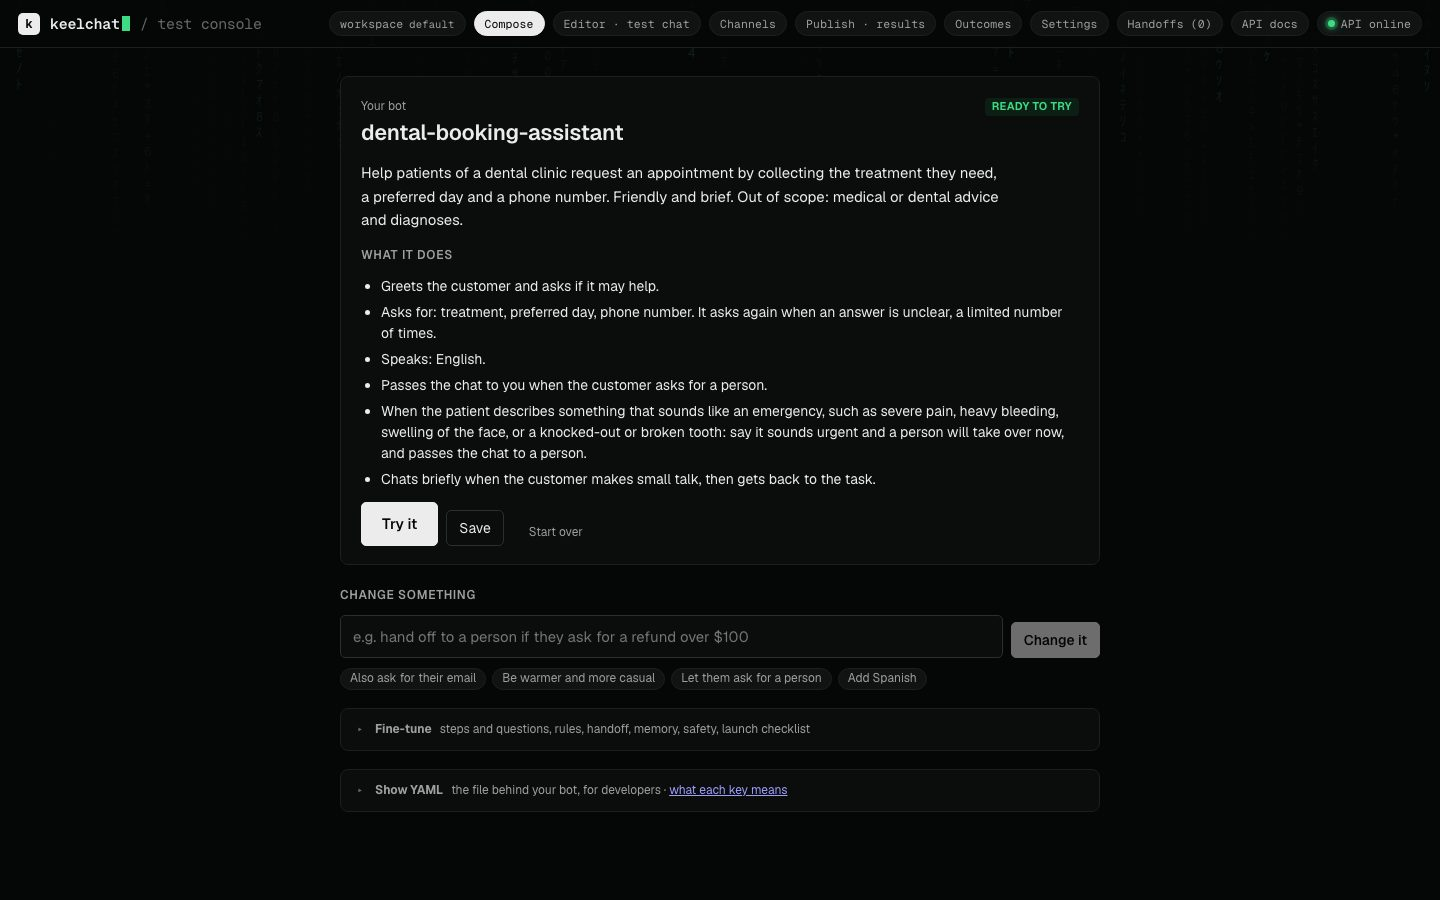
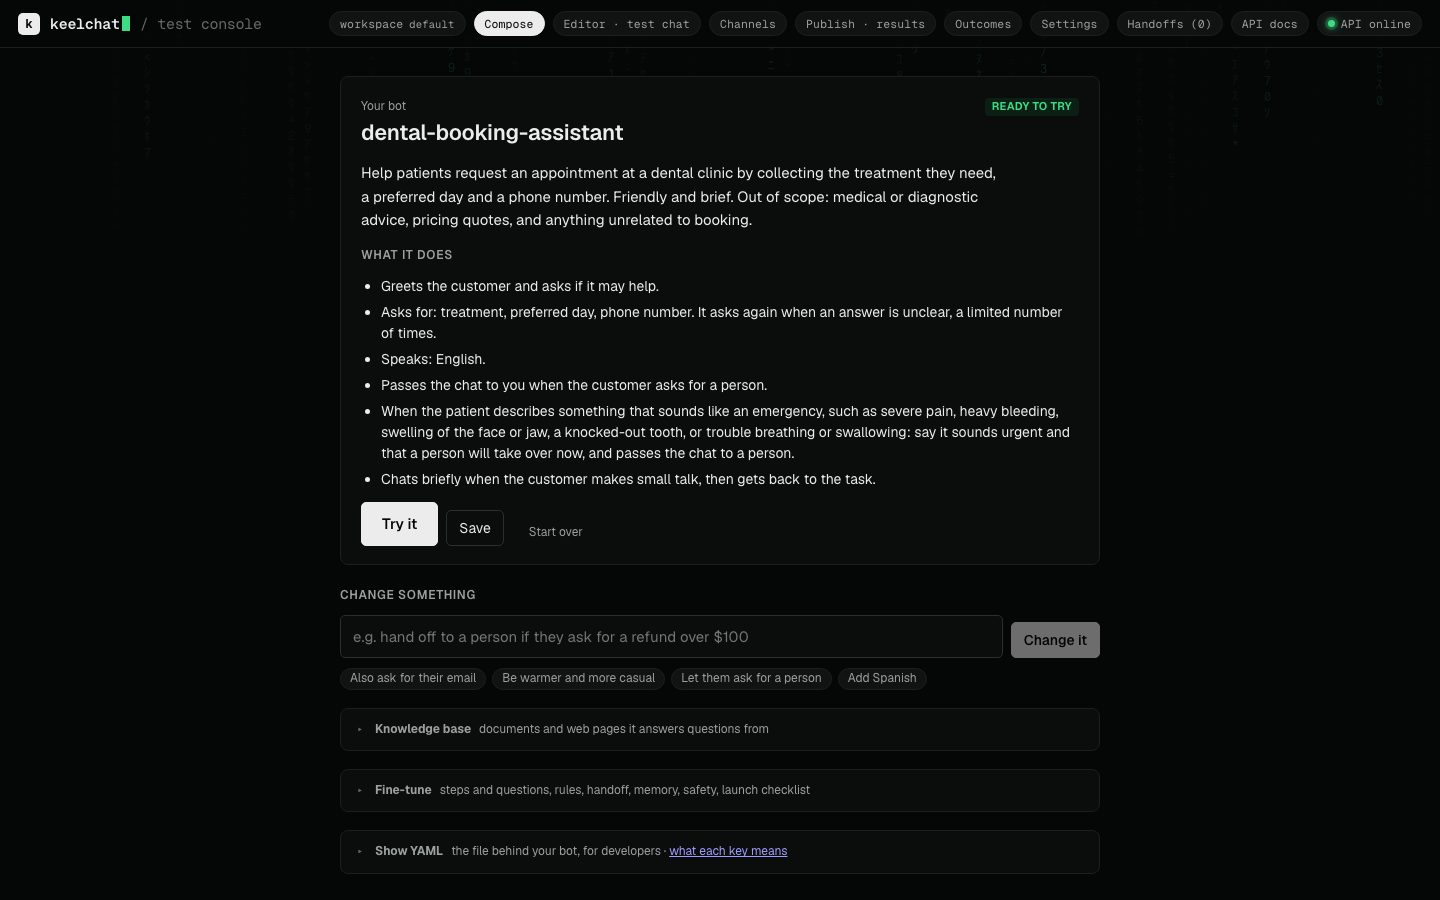
README screenshots re-taken from the current console and demo
All six images were checked against the running app (Sonnet drafting):
compose.jpg and the GIF now show the Knowledge base panel; console,
Why-tab and Judge shots re-taken; demo-make.jpg shows today's result card;
a new demo-ask.jpg shows the questions before drafting, added to the README.
Alt texts describe what each image now shows.

diff --git a/README.md b/README.md
@@ -52,7 +52,7 @@ Say what the bot should do in a sentence or two. keelchat drafts the policy, tel
 when it hands over, and takes changes in plain words ("also ask for a phone number"). The result is one short YAML
 file you can review and keep in git.
 
-<img src="https://raw.githubusercontent.com/pnrajan/keelchat/main/docs/assets/compose.jpg" width="900" alt="Compose: a dental clinic's booking bot written from two sentences, read back in plain words (what it asks, when it hands an emergency to a person), with Try it, Save, and a box to ask for changes" />
+<img src="https://raw.githubusercontent.com/pnrajan/keelchat/main/docs/assets/compose.jpg" width="900" alt="Compose: a dental clinic's booking bot written from a description and read back in plain words (what it asks, when it hands an emergency to a person), with Try it, Save, a box to ask for changes, and Knowledge base, Fine-tune and Show YAML below" />
 
 </td>
 </tr>
@@ -160,7 +160,9 @@ to chat with it (its tools answer with sample data), and see what it needs conne
 link can start a draft:
 [`?describe=Book haircuts and ask for a phone number`](https://keelchat-demo.fly.dev/?describe=Book+haircuts+and+ask+for+a+phone+number).
 
-<p align="center"><img src="https://raw.githubusercontent.com/pnrajan/keelchat/main/docs/assets/demo-make.jpg" width="560" alt="The demo: a dental booking bot described in one sentence, its YAML with Try this bot, Copy and Download, and what it needs connecting: a booking calendar (Google Calendar, Calendly, Outlook, Acuity), a patient records system, an SMS sender, a model key, somewhere for handed-over chats, and where people talk to it" /></p>
+<p align="center"><img src="https://raw.githubusercontent.com/pnrajan/keelchat/main/docs/assets/demo-ask.jpg" width="560" alt="The demo after a description: what it understood (a dental clinic bot that collects the treatment, preferred day and phone number and passes emergencies to staff), then five questions with options to click, each with a line on what it decides, and Build my bot or Skip" /></p>
+
+<p align="center"><img src="https://raw.githubusercontent.com/pnrajan/keelchat/main/docs/assets/demo-make.jpg" width="560" alt="The demo: the drafted dental booking bot's YAML with Try this bot, Copy and Download, and what it needs connecting: a booking request notifier and a practice calendar suggested for this bot, a model key, somewhere for handed-over chats, and where people talk to it" /></p>
 
 ### Run it locally
 

diff --git a/docs/FEATURES.md b/docs/FEATURES.md
@@ -17,7 +17,7 @@ The features behind a policy, with the YAML that turns each one on. Start with t
 
 `frontend/` is a React console for building and testing bots, served at `/console/` once built.
 
-<p align="center"><img src="assets/compose.jpg" alt="Compose: a dental clinic's booking bot written from two sentences, read back in plain words (what it asks, when it hands an emergency to a person), with Try it, Save, and a box to ask for changes" width="900"></p>
+<p align="center"><img src="assets/compose.jpg" alt="Compose: a dental clinic's booking bot written from a description and read back in plain words (what it asks, when it hands an emergency to a person), with Try it, Save, a box to ask for changes, and Knowledge base, Fine-tune and Show YAML below" width="900"></p>
 
 Drafting a bot from a description is the job where a stronger model shows most: set `KEELCHAT_MODEL_GENERATE` to one for
 cleaner YAML on the first try. The README lists [where else it helps](../README.md#where-a-stronger-model-helps).

diff --git a/CHANGELOG.md b/CHANGELOG.md
@@ -30,6 +30,11 @@ Format: [Keep a Changelog](https://keepachangelog.com/en/1.1.0/).
 - Releases publish to PyPI from GitHub with Trusted Publishing (`.github/workflows/release.yml`); steps in
   CONTRIBUTING.md.
 
+### Changed
+
+- README and docs screenshots re-taken from the current console and demo: Compose shows the Knowledge base panel; a new
+  image shows the demo's questions before drafting.
+
 ### Fixed
 
 - pgvector finds a small knowledge base beside a large one (iterative index scans), and takes embeddings over 2000
